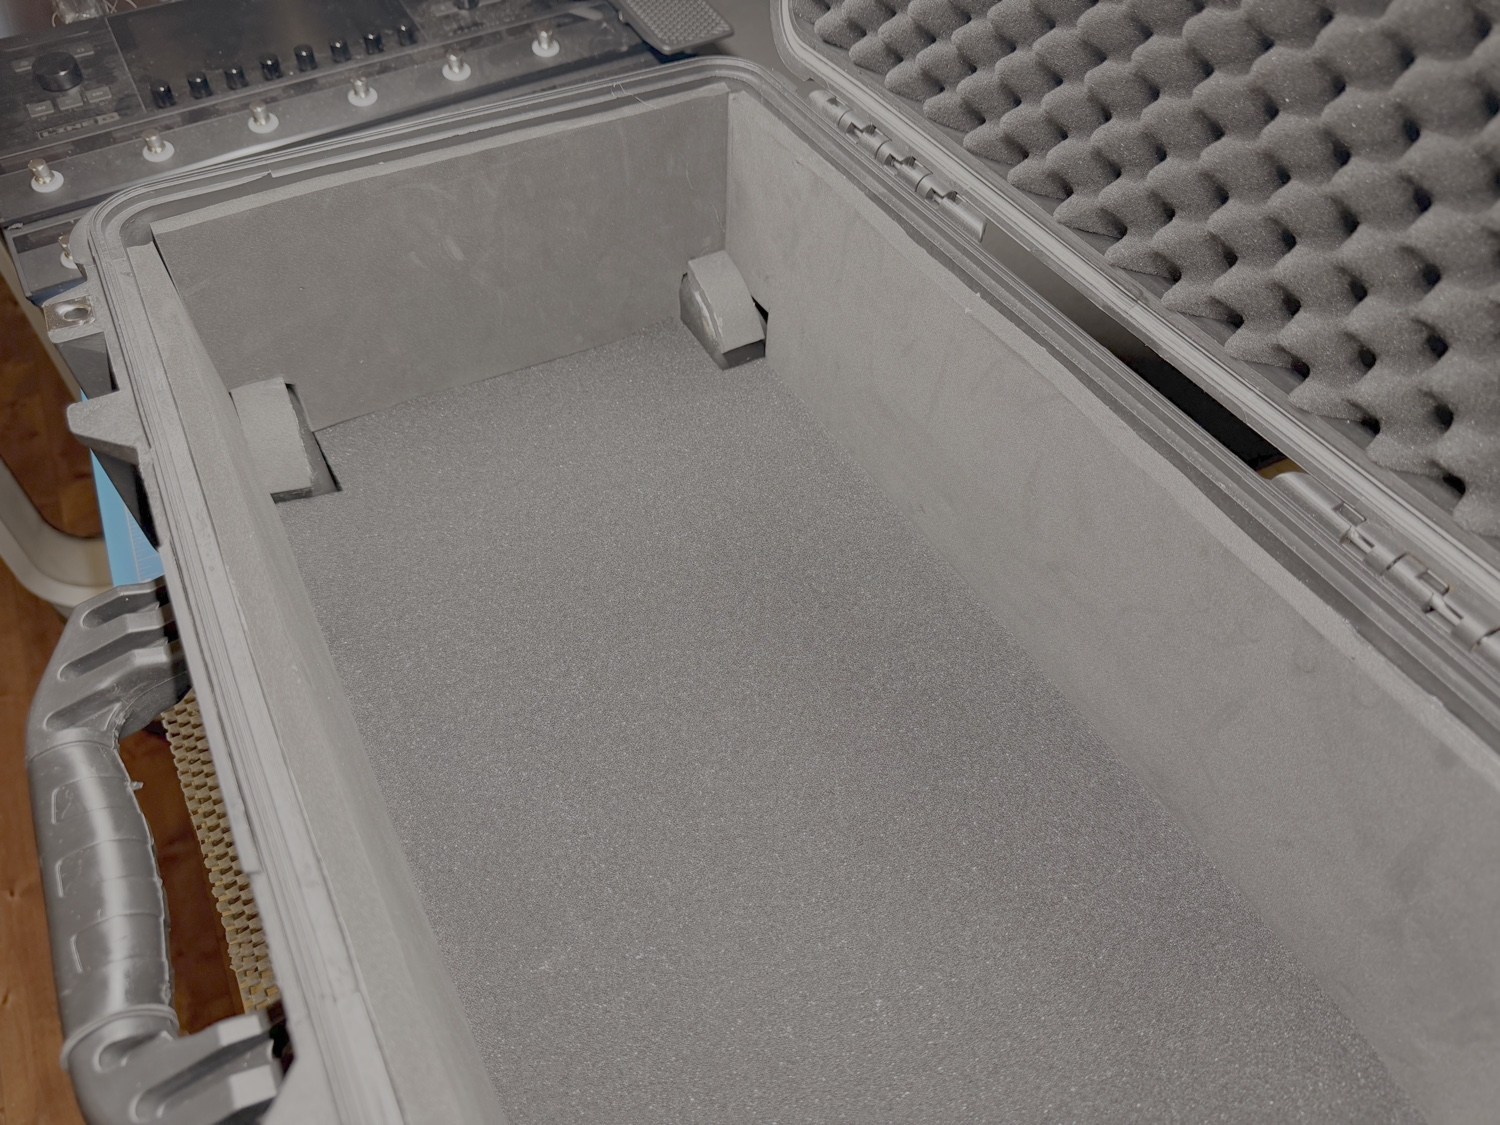
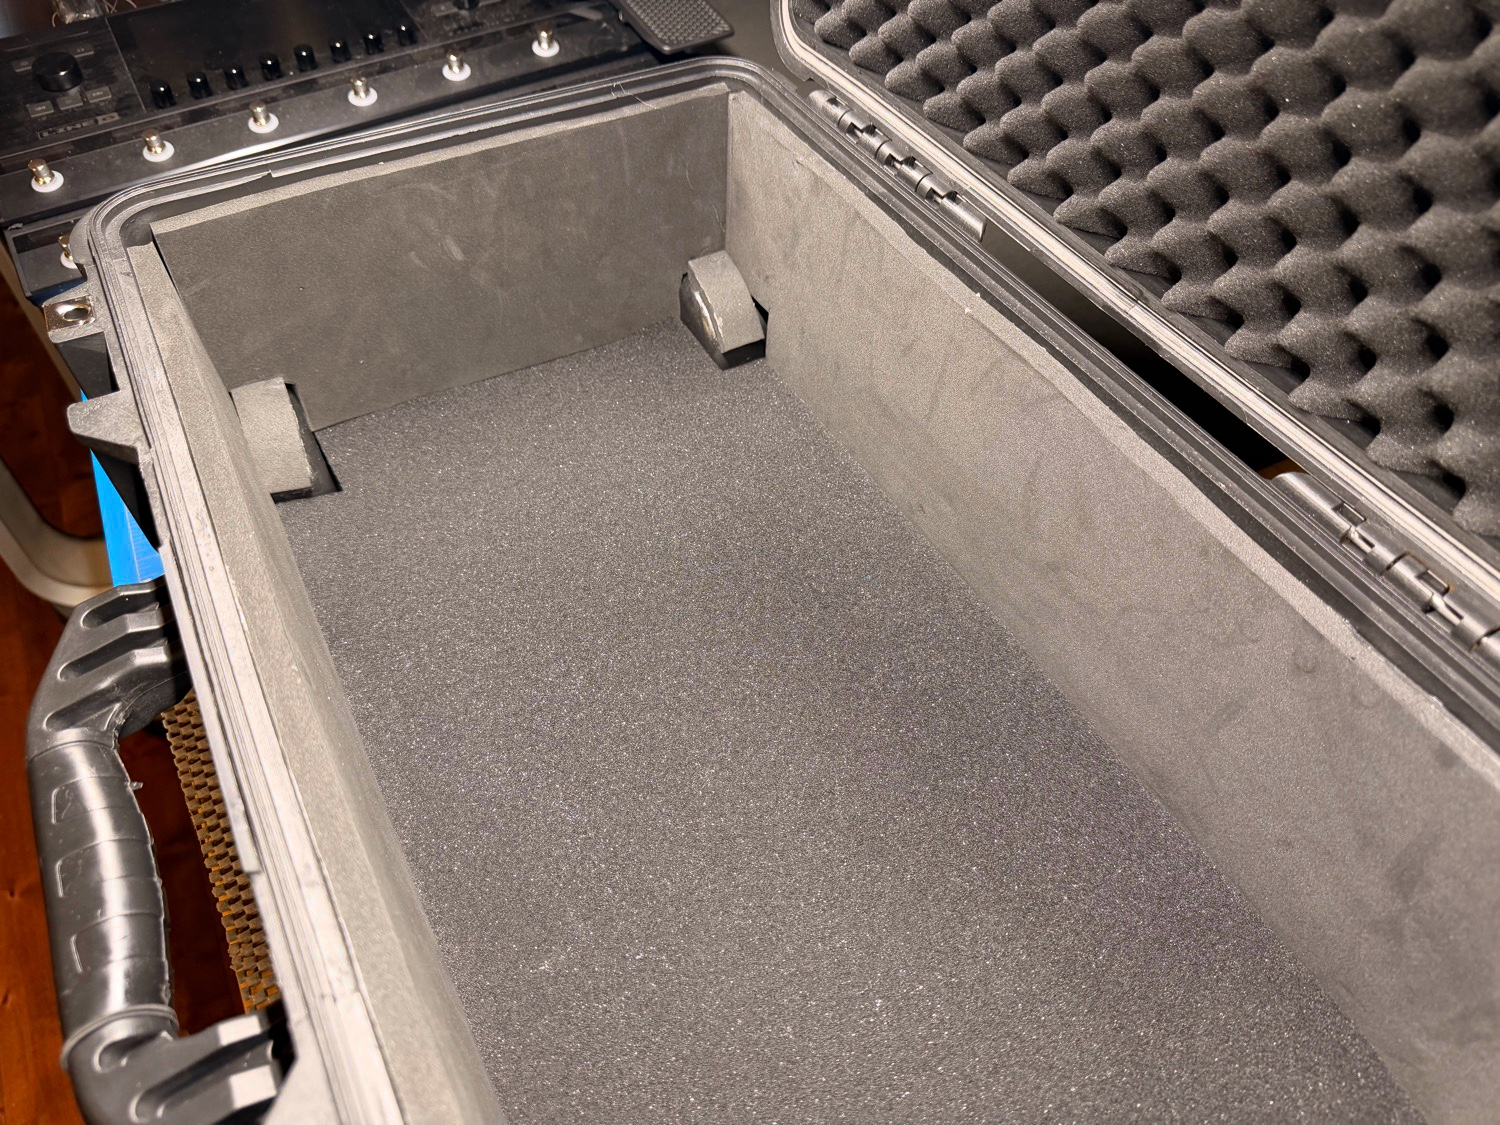
build with ssqch 0.2.2, which converts non-sRGB photos to sRGB
ssqch 0.2.2 converts Display P3 and other non-sRGB images to sRGB, so 39
source images get re-encoded with their real colors. The 4 HDR iPhone photos
in the Helix roller case post have profiles it can't convert, so those
sources are converted to sRGB once here with sips (quality 90).

diff --git a/TODO.md b/TODO.md
@@ -16,7 +16,7 @@ Done alongside "Remove Eleventy" in the sitesquatch TODO. The build output is th
 - [x] ESLint allows the `ssqch` modules (`allowModules` in `eslint.config.js`), since they're built into the binary.
 - [x] Eleventy wording removed from `package.json`, template comments and `scripts/hash-assets.js`; `README.md`, `CLAUDE.md` and `RECOMMENDATIONS.md` updated.
 - [x] The deploy builds `-p ssqch --features avif`, and `scripts/build-native.sh` runs `hash-assets.js` and `prune-images.js` around the site build (checked locally, smoke tests pass).
-- [x] The deploy is pinned: it installs the prebuilt sitesquatch release in `SSQCH_VERSION` (`0.2.1`) instead of compiling a pinned commit.
+- [x] The deploy is pinned: it installs the prebuilt sitesquatch release in `SSQCH_VERSION` (`0.2.2`) instead of compiling a pinned commit.
 - [ ] Try live reload in `pnpm run serve` (template and CSS edits). The server starts and serves pages with the native config.
 
 ## Step 2: back to Netlify builds
@@ -25,14 +25,16 @@ Done alongside "Remove Eleventy" in the sitesquatch TODO. The build output is th
 
 - [x] `netlify.toml`'s build command installs the pinned ssqch release (`SSQCH_VERSION`), runs `pnpm run build`, then `node --test test/smoke.test.js`, so a failing smoke test stops the deploy.
 - [x] Cache `dist/img` and `.cache/ssqch` with `netlify-plugin-cache`.
-- [ ] Check the cold-cache build time (about 3,200 image derivatives with AVIF) against Netlify's build timeout. The sitesquatch TODO has a matching item.
-- [ ] Turn Netlify's builds back on, then delete `.github/workflows/deploy.yml` and the `NETLIFY_AUTH_TOKEN` and `NETLIFY_SITE_ID` repository secrets (and `SSQCH_TOKEN`, which the deploy no longer uses, if it was ever set).
-- [ ] Delete `scripts/build-native.sh` (only the GitHub deploy uses it). That also settles two old items: there's one CSS pipeline (PostCSS and esbuild from `package.json`), and no Tailwind version pin to keep in sync with `package.json`.
+- [x] Check the cold-cache build time against Netlify's build timeout: the first Netlify build (2026-11-08, deploy `6af12456`) took 259 s and published fine.
+- [x] Netlify's builds are back on, and `.github/workflows/deploy.yml` is deleted.
+- [ ] Delete the `NETLIFY_AUTH_TOKEN` and `NETLIFY_SITE_ID` repository secrets (and `SSQCH_TOKEN`, if it was ever set), and revoke the personal access token behind `NETLIFY_AUTH_TOKEN` in Netlify.
+- [x] Delete `scripts/build-native.sh` (only the GitHub deploy used it). That also settles two old items: there's one CSS pipeline (PostCSS and esbuild from `package.json`), and no Tailwind version pin to keep in sync with `package.json`.
 - [x] Update `CLAUDE.md` for the Netlify build, and `scripts/ssqch.sh`'s "not found" hint to point at the install script.
 
 ## Step 3: ssqch features as they land
 
-- [ ] **Needs ssqch:** color profile conversion. Check the 40 Display P3 JPEGs under `src/site/content/images` (including `rg-banner-2023.jpg`, the WordCamp Asia 2025 illustrations and the MVP heart photos), and the PNGs.
+- [x] **Needs ssqch:** color profile conversion, in ssqch 0.2.2. Display P3 and other non-sRGB images are converted to sRGB (39 of the build's 737 source images).
+- [x] The 4 HDR iPhone photos in `src/site/content/images/heavy-duty-roller-case-for-helix-stadium-xl/` are converted to sRGB (`sips -m ".../sRGB Profile.icc" -s formatOptions 90`), since ssqch can't convert their HDR profiles. Do the same for future HDR photos; ssqch warns about them.
 - [ ] **Needs ssqch:** built-in asset fingerprinting. Then remove `scripts/hash-assets.js`, `.asset-manifest.json`, `src/site/_data/assets.js` and the `build:hash` script, and update the "Assets" section of `CLAUDE.md`.
 - [ ] **Needs ssqch:** built-in link checker. Turn it on for production builds. Use `lychee` (locally or in CI) for external links if those matter.
 - [ ] Compare AVIF quality. ssqch encodes with ravif at speed 8; the old Eleventy build used libaom at effort 4. Total sizes are about the same, but quality hasn't been compared. Tune `avifSpeed` / `avifQuality` if needed, keeping Netlify's build time in mind.
